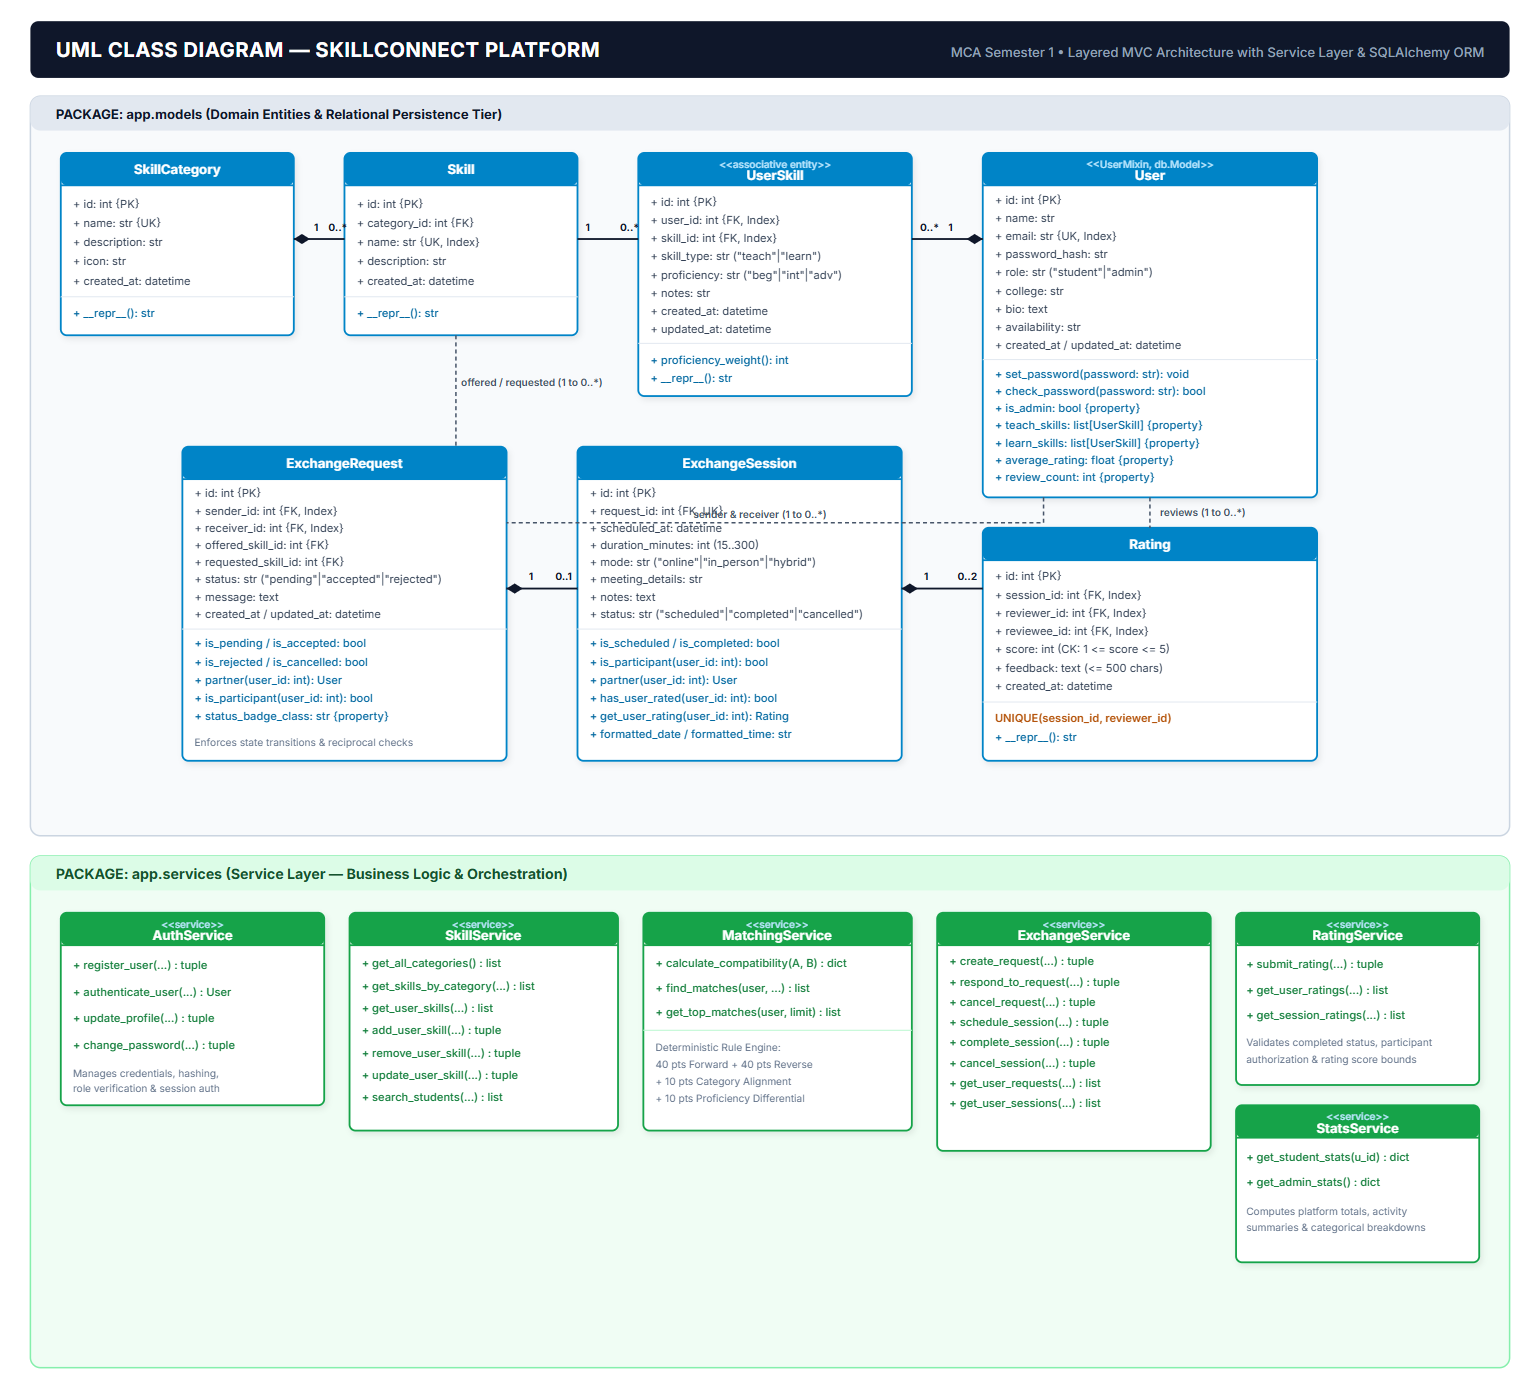
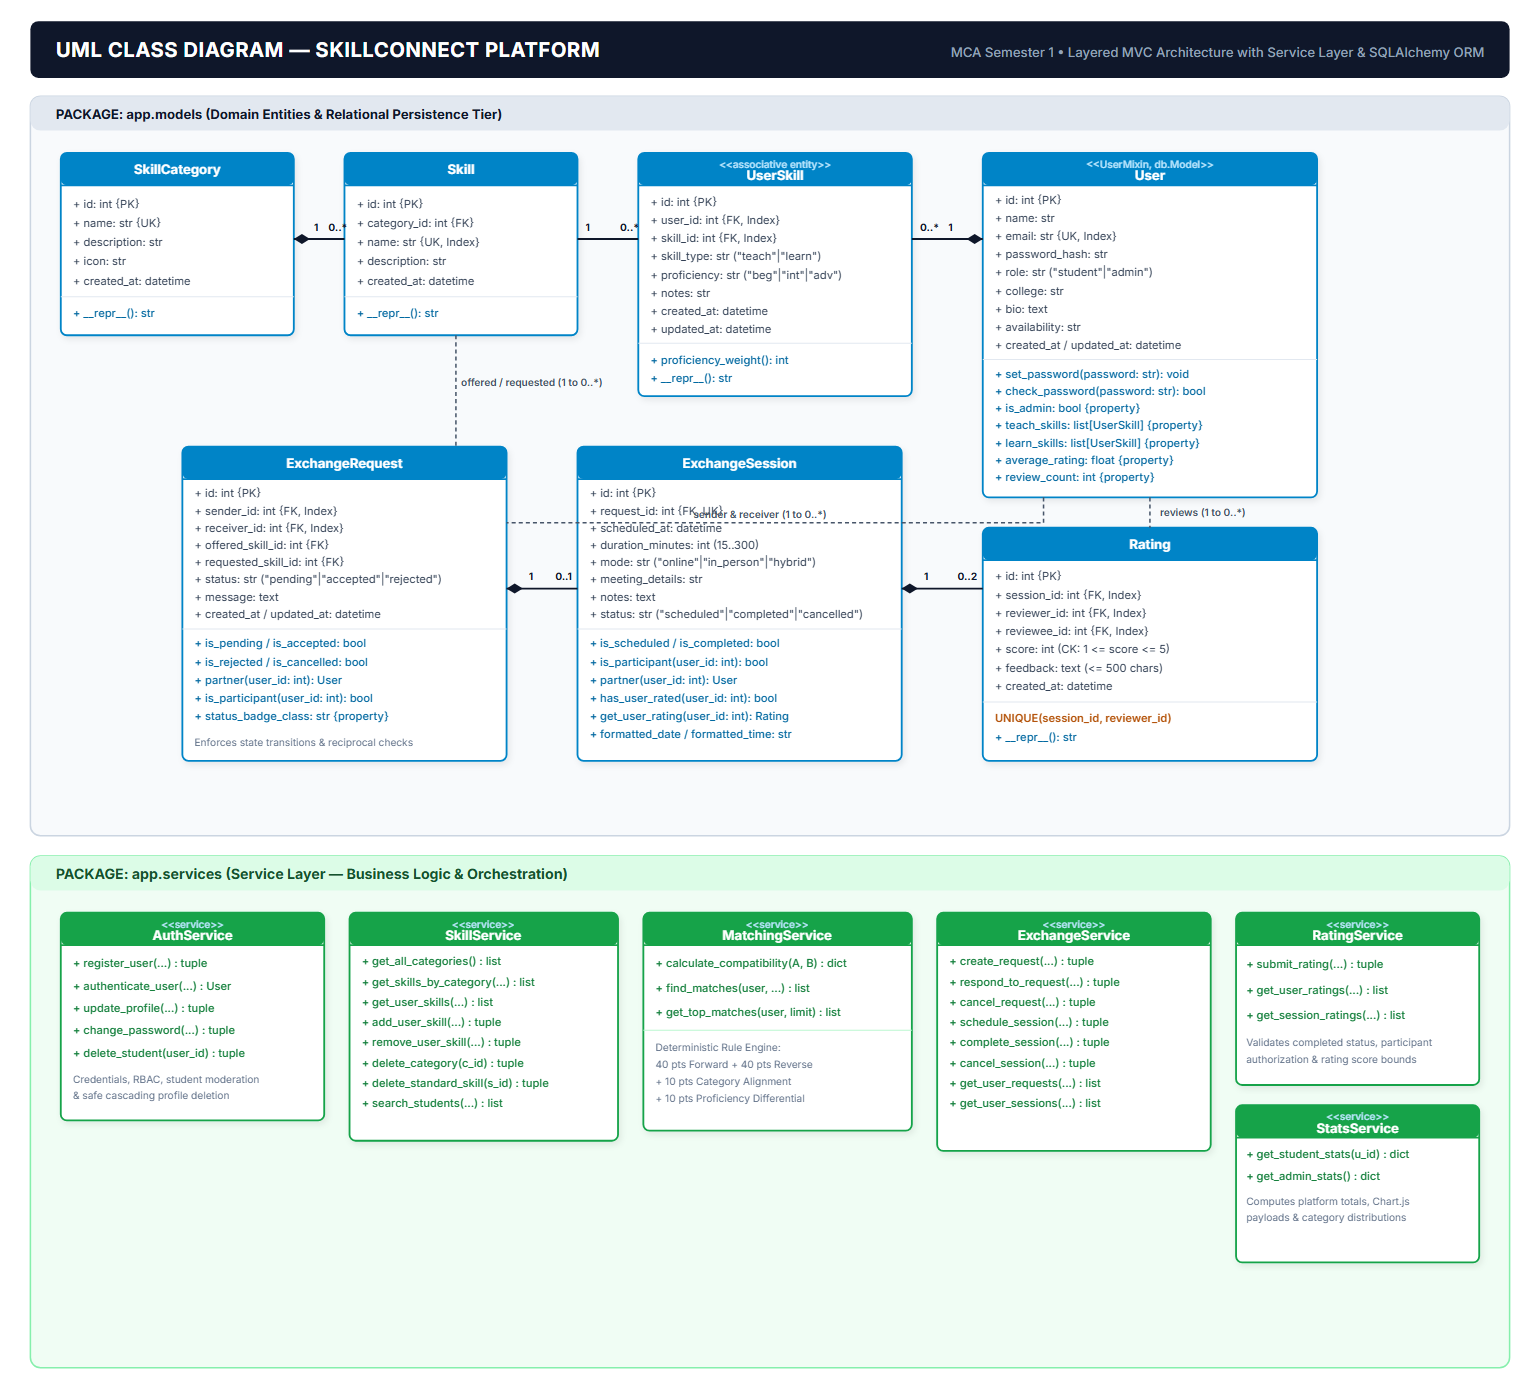
docs(diagrams): update UML Use Case, Class, Module Description diagrams and specs with admin moderation and analytics

Changed region(s): [[0.0312, 0.6757, 0.4052, 0.8293], [0.8104, 0.7986, 0.9351, 0.8907]]

diff --git a/docs/generate_module_description.py b/docs/generate_module_description.py
@@ -115,23 +115,23 @@ MODULES = [
     },
     {
         "num": "MODULE 06",
-        "title": "Administration & Governance",
+        "title": "Administration & Moderation",
         "accent": "#fb7185",
         "accent_bg": "rgba(251, 113, 133, 0.15)",
         "accent_border": "rgba(251, 113, 133, 0.4)",
         "badge": "Governance Tier",
-        "endpoint": "/admin • CLI Tooling",
-        "service": "AdminController, CLI Commands",
-        "models": "All Database Entities",
-        "desc": "Provides administrative control, platform-wide audit metrics, taxonomy curation, and automated system management.",
+        "endpoint": "/admin/dashboard • /admin/student/<id>/delete",
+        "service": "AuthService, SkillService, StatsService",
+        "models": "User, SkillCategory, Skill, All Entities",
+        "desc": "Provides administrative control, visual telemetry charts, student fraud moderation with safe cascades, and taxonomy curation.",
         "features": [
-            "Restricted administrative dashboard with @admin_required RBAC",
-            "System-wide telemetry: user counts, active swaps, ratings",
-            "Skill taxonomy curation (create, update, view categories)",
-            "Platform skill catalog moderation & quality control",
-            "Automated CLI management: seed-skills, create-admin, reset-db"
+            "Institutional dashboard with 4 live KPI cards & 3 Chart.js graphs",
+            "Student moderation & fraud account removal with safe cascading delete",
+            "Skill category & standard skill deletion with active swap guards",
+            "Search and query filtering across all enrolled student accounts",
+            "Protected by @admin_required RBAC & automated CLI management"
         ],
-        "test_status": "100% Tested (CLI & RBAC Tests)"
+        "test_status": "100% Tested (24 Skill/Admin Tests, 96 Total)"
     }
 ]
 
@@ -306,7 +306,7 @@ def generate_svg():
 
       <rect x="135" y="0" width="125" height="36" rx="6" fill="#1e293b" stroke="#34d399" stroke-width="1"/>
       <text x="197.5" y="15" text-anchor="middle" font-size="8.5" font-weight="700" fill="#34d399">VERIFIED TESTS</text>
-      <text x="197.5" y="29" text-anchor="middle" font-size="11" font-weight="700" fill="#ffffff">91 / 91 Passed</text>
+      <text x="197.5" y="29" text-anchor="middle" font-size="11" font-weight="700" fill="#ffffff">96 / 96 Passed</text>
 
       <rect x="270" y="0" width="125" height="36" rx="6" fill="#1e293b" stroke="#c084fc" stroke-width="1"/>
       <text x="332.5" y="15" text-anchor="middle" font-size="8.5" font-weight="700" fill="#c084fc">MODULE COUNT</text>

diff --git a/docs/use_case_diagram.md b/docs/use_case_diagram.md
@@ -1,7 +1,7 @@
 # SkillConnect — UML Use Case Diagram Specification
 **Academic Level:** MCA Semester 1 — Python Mini Project  
 **System Boundary:** `SkillConnect System`  
-**Current Status:** Phase 6 Final Verification Baseline (Modules 1, 2, 3, 4, and 5 fully implemented, end-to-end verified, 91/91 tests passing)
+**Current Status:** Phase 6 Final Verification Baseline (Modules 1, 2, 3, 4, 5, and 6 fully implemented, end-to-end verified, 96/96 tests passing)
 
 ---
 
@@ -53,8 +53,9 @@ flowchart LR
         %% Administration
         UC_AdminLogin(["Log In as Administrator"])
         UC_AdminPortal(["Access Protected Admin Portal"])
-        UC_AdminStats(["View Platform Statistics"])
-        UC_ManageTaxonomy(["Manage Skill Categories & Skills"])
+        UC_AdminStats(["View Platform Statistics & Charts"])
+        UC_ManageTaxonomy(["Manage & Delete Categories & Skills"])
+        UC_ModerateStudents(["Moderate & Delete Fraudulent Students"])
     end
 
     %% Student Connections
@@ -86,9 +87,11 @@ flowchart LR
     Admin --> UC_AdminPortal
     Admin --> UC_AdminStats
     Admin --> UC_ManageTaxonomy
-    UC_AdminPortal -.->|&lt;&lt;include&gt;&gt;| UC_AdminLogin
-    UC_AdminStats -.->|&lt;&lt;include&gt;&gt;| UC_AdminPortal
-    UC_ManageTaxonomy -.->|&lt;&lt;include&gt;&gt;| UC_AdminPortal
+    Admin --> UC_ModerateStudents
+    UC_AdminPortal -.->|<<include>>| UC_AdminLogin
+    UC_AdminStats -.->|<<include>>| UC_AdminPortal
+    UC_ManageTaxonomy -.->|<<include>>| UC_AdminPortal
+    UC_ModerateStudents -.->|<<include>>| UC_AdminPortal
 ```
 
 ---
@@ -98,7 +101,7 @@ flowchart LR
 1. **Student Actor (Primary Actor):**
    The registered peer learner/teacher. Every student can declare skills to teach and skills to learn under a unified profile, search peers, discover bilateral matches, send requests, schedule sessions, rate peers after completed sessions, and view personalized dashboard analytics.
 2. **Administrator Actor (Secondary Actor):**
-   The college department coordinator or system moderator. Responsible for role-protected oversight, platform usage statistics, and curating official skill categories and skills.
+   The college professor, department coordinator, or system moderator. Responsible for role-protected platform oversight, live telemetry visual charts, student moderation (purging fraudulent student profiles with cascading safety), and curating/deleting skill categories and standard skills.
 
 ---
 
@@ -124,7 +127,8 @@ flowchart LR
 | **Rating & Dashboard** | Rate Completed Exchange | Student | *&lt;&lt;extend&gt;&gt;* Evaluates completed sessions (1–5 stars). | **Phase 5 (Implemented & Tested)** |
 | | Submit Written Feedback | Student | *&lt;&lt;include&gt;&gt;* Submits review comments. | **Phase 5 (Implemented & Tested)** |
 | | View Dashboard & Analytics | Student | Displays summaries and Chart.js activity charts. | **Phase 5 (Implemented & Tested)** |
-| **Administration** | Log In as Administrator | Admin | Authenticates as admin. | **Phase 2 (Implemented & Tested)** |
-| | Access Admin Portal | Admin | Role-protected admin dashboard. | **Phase 2 (Implemented & Tested)** |
-| | View Platform Statistics | Admin | Reviews platform-wide usage metrics. | **Phase 5 (Implemented & Tested)** |
-| | Manage Categories & Skills | Admin | Curates official categories and skills taxonomy. | **Phase 3 (Implemented & Tested)** |
+| **Administration & Moderation** | Log In as Administrator | Admin | Authenticates as administrator. | **Phase 2 (Implemented & Tested)** |
+| | Access Admin Portal | Admin | Role-protected institutional admin dashboard. | **Phase 2 (Implemented & Tested)** |
+| | View Visual Analytics & KPIs | Admin | Reviews 4 KPI cards and 3 Chart.js graphs. | **Phase 6 (Implemented & Tested)** |
+| | Manage & Delete Taxonomy | Admin | Creates and deletes categories and standard skills. | **Phase 6 (Implemented & Tested)** |
+| | Moderate Students & Accounts | Admin | Searches students and deletes fraud accounts with safe cascade. | **Phase 6 (Implemented & Tested)** |

diff --git a/docs/module_description.md b/docs/module_description.md
@@ -3,7 +3,7 @@
 **Project:** SkillConnect — Peer-to-Peer Student Skill Exchange Platform  
 **Academic Program:** MCA Semester 1 Mini Project  
 **Architecture:** Layered MVC with Flask Blueprints, Service Layer & SQLAlchemy 3NF Models  
-**Test Suite:** 91 / 91 Verified Tests Passing (100%)  
+**Test Suite:** 96 / 96 Verified Tests Passing (100%)  
 
 ---
 
@@ -102,16 +102,17 @@
 
 ---
 
-### Module 06: Administration & Platform Governance
-- **Tier:** Governance & System Maintenance Tier
-- **Routing Endpoints:** `/admin`, `/admin/categories`, `/admin/skills`, `/admin/stats`
+### Module 06: Administration & Platform Moderation
+- **Tier:** Governance & Moderation Tier
+- **Routing Endpoints:** `/admin/dashboard`, `/admin/student/<id>/delete`, `/admin/category/<id>/delete`, `/admin/skill/<id>/delete`
 - **Controller Blueprint:** `app/routes/admin.py`
-- **Service Layer:** Administrative route controllers, CLI subroutines (`app/cli.py`)
-- **Entities & Models:** All Models (`User`, `SkillCategory`, `Skill`, `ExchangeRequest`, etc.)
+- **Service Layer:** `AuthService.delete_student`, `SkillService.delete_category`, `SkillService.delete_standard_skill`, `StatsService.get_admin_stats`, CLI subroutines
+- **Entities & Models:** All Models (`User`, `SkillCategory`, `Skill`, `ExchangeRequest`, `ExchangeSession`, `Rating`)
 - **Core Capabilities:**
-  - Dedicated administrative dashboard protected by `@admin_required` authorization guard.
-  - System-wide telemetry metrics (user enrollments, exchange volumes, session completion rates).
-  - Skill taxonomy management (creating, editing, and categorizing canonical skills).
-  - Quality moderation and curation of student-proposed unlisted skills.
-  - CLI operations: `seed-skills` (idempotent population), `create-admin` (bootstrap administrator), `reset-db`.
-- **Test Verification:** 100% Passed (CLI & RBAC Tests).
+  - Dedicated institutional dashboard protected by `@admin_required` authorization guard.
+  - Interactive visual analytics telemetry: 4 KPI metric cards and 3 Chart.js graphs (Category skill breakdown, Exchange request status breakdown, Rating score distribution).
+  - Student moderation & fraud account removal with safe cascading deletion of associated requests, sessions, ratings, and portfolios.
+  - Skill taxonomy governance with category deletion and standard skill deletion guarded by exchange request integrity checks.
+  - Live search and query filtering across all enrolled student accounts.
+  - Automated CLI operations: `seed-demo`, `create-admin`, `seed-skills`, `init-db`.
+- **Test Verification:** 100% Passed (24 Skill/Admin Tests, 96/96 Total Tests Passing).

diff --git a/docs/test_plan.md b/docs/test_plan.md
@@ -18,7 +18,7 @@
 **Test Run Date:** October 18, 2026  
 **Environment:** Python 3.14.7 / pytest 9.1.1 / Flask Test Client  
 **Execution Command:** `python -m pytest -v`  
-**Overall Result:** **91 Passed, 0 Failed, 0 Errors (100% Pass Rate)**
+**Overall Result:** **96 Passed, 0 Failed, 0 Errors (100% Pass Rate)**
 
 | Test Suite File | Test Function | Verified Behavior | Status |
 | :--- | :--- | :--- | :---: |
@@ -113,17 +113,22 @@
 | `tests/test_ratings.py` | `test_dashboard_route_view` | `/dashboard` renders dynamic metric cards and Chart.js canvases | **PASSED** |
 | `tests/test_ratings.py` | `test_profile_reviews_section_view` | `/profile` displays received peer reviews section | **PASSED** |
 | `tests/test_ratings.py` | `test_student_detail_reviews_view` | Peer profile displays star rating and reviews received | **PASSED** |
+| `tests/test_skills.py` | `test_admin_delete_category` | Admin deletes category; cascaded child skills removed; flash confirmed | **PASSED** |
+| `tests/test_skills.py` | `test_admin_delete_skill_success` | Admin deletes unused standard skill safely | **PASSED** |
+| `tests/test_skills.py` | `test_admin_delete_skill_blocked_if_in_exchange` | System blocks skill deletion if active in exchange requests | **PASSED** |
+| `tests/test_skills.py` | `test_admin_delete_student_account` | Admin moderates student; cascaded requests, sessions, skills & ratings removed | **PASSED** |
+| `tests/test_skills.py` | `test_admin_delete_student_cannot_delete_self` | Admin account cannot delete own administrator profile | **PASSED** |
 
 ---
 
 ## 3. Test Coverage Summary
 
-- **Total Test Cases:** 91
-- **Passing Rate:** 100% (91/91)
+- **Total Test Cases:** 96
+- **Passing Rate:** 100% (96/96)
 - **Regressions Introduced:** 0
 - **Modules Covered:**
   - Module 1: User Authentication and Profile (14 tests)
-  - Module 2: Skill Management (19 tests)
+  - Module 2 & 6: Skill Management & Admin Moderation (24 tests)
   - Module 3: Skill Discovery and Matching (12 tests)
   - Module 4: Skill Exchange and Session Management (23 tests)
   - Module 5: Rating, Feedback and Dashboard (17 tests)

diff --git a/docs/class_diagram.md b/docs/class_diagram.md
@@ -2,7 +2,7 @@
 **Academic Level:** MCA Semester 1 — Python Mini Project  
 **System Boundary:** `SkillConnect Platform`  
 **Pattern:** Layered MVC Architecture with Service Layer & SQLAlchemy ORM  
-**Current Baseline:** Fully implemented & verified (91/91 unit/integration tests passing)
+**Current Baseline:** Fully implemented & verified (96/96 unit/integration tests passing)
 
 ---
 
@@ -139,6 +139,7 @@ classDiagram
         +authenticate_user(email, password) User
         +update_profile(user_id, name, college, bio, availability) tuple
         +change_password(user_id, old_pw, new_pw) tuple
+        +delete_student(user_id) tuple
     }
 
     class SkillService {
@@ -150,6 +151,8 @@ classDiagram
         +remove_user_skill(user_skill_id, user_id) tuple
         +update_user_skill(user_skill_id, user_id, proficiency, notes) tuple
         +search_students(query, skill_id, category_id, skill_type) list
+        +delete_category(category_id) tuple
+        +delete_standard_skill(skill_id) tuple
     }
 
     class MatchingService {
@@ -177,7 +180,7 @@ classDiagram
 
     class StatsService {
         +get_student_dashboard_stats(user_id) dict
-        +get_admin_platform_stats() dict
+        +get_admin_stats() dict
     }
 
     %% ==========================================

diff --git a/docs/requirements.md b/docs/requirements.md
@@ -49,9 +49,9 @@ All five core modules for Version 1.0 are fully implemented, verified, and opera
 | **Module 4: Exchange & Session** | Exchange proposals, State machine, Session scheduling & lifecycle | Phase 4 | **Implemented & Verified** | 100% (23 Unit & Integration tests) |
 | **Module 5: Rating & Dashboard** | Post-session reviews, Star ratings, Dynamic Dashboard, Chart.js feeds | Phase 5 | **Implemented & Verified** | 100% (17 Unit & Integration tests) |
 | **End-to-End Integration** | Multi-user student lifecycle handoffs & Admin governance workflows | Phase 6 | **Implemented & Verified** | 100% (2 E2E Integration tests) |
-| **Administration** | Safe CLI admin creation (`create-admin`), `@admin_required`, Category/Skill CRUD | Phase 2 & 3 | **Implemented & Verified** | 100% (CLI & RBAC) |
+| **Administration & Moderation** | Student moderation & deletion, Category/Skill CRUD & safety, Telemetry Charts | Phase 6 | **Implemented & Verified** | 100% (24 Skill/Admin tests) |
 
-**Total Verified Tests:** 91 tests passing (100% pass rate).
+**Total Verified Tests:** 96 tests passing (100% pass rate).
 
 ---
 

diff --git a/docs/activity_diagram.md b/docs/activity_diagram.md
@@ -2,7 +2,7 @@
 **Academic Level:** MCA Semester 1 — Python Mini Project  
 **System Boundary:** `SkillConnect Platform`  
 **Pattern:** UML 2.5 Activity Diagrams with Partitions (Swimlanes), Decision Nodes, and State Progression  
-**Current Baseline:** Fully implemented & verified (91/91 unit/integration tests passing)
+**Current Baseline:** Fully implemented & verified (96/96 unit/integration tests passing)
 
 ---
 
